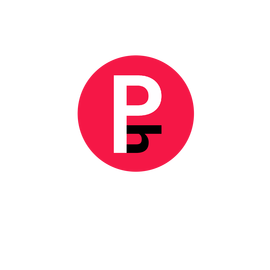
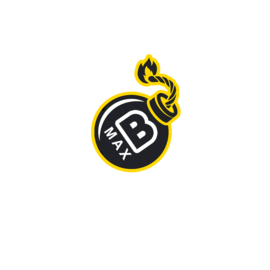
menu fix

Changed region(s): [[0.2667, 0.1778, 0.7407, 0.6519]]

diff --git a/src/components/Header/Header.js b/src/components/Header/Header.js
@@ -48,16 +48,16 @@ const Header = ({ links, isNightMode, setNightMode }) => {
           <Button className={classes.title}>
             <Hidden xsDown>
               <img
-                alt="PegHub"
-                src={require(`images/peghubstaking.png`)}
+                alt="BOMB"
+                src={require(`images/bombmax-512.png`)}
                 height={'70px'}
                 className={classes.logo}
               />
             </Hidden>
             <Hidden smUp>
               <img
-                alt="PegHub"
-                src={require(`images/peghubstaking.png`)}
+                alt="BOMB"
+                src={require(`images/bomb-money.png`)}
                 height={'35px'}
                 className={classes.logo}
               />
@@ -67,15 +67,15 @@ const Header = ({ links, isNightMode, setNightMode }) => {
 
         <div className={classes.middleNav}>
           <Hidden smDown>
-            {renderLink('https://www.peghub.com', t('PegHub'), null, classes)}
             {renderLink('https://app.bomb.money/', t('BOMB Money'), null, classes)}
-            {renderLink('https://app.bitbomb.io/', t('bitBOMB'), null, classes)}
-            {renderLink('https://www.czpegs.com/', t('czPegs'), null, classes)}
+            {renderLink('https://www.bomb.app/', t('BOMB MAX'), null, classes)}
+            {/* {renderLink('https://www.czpegs.com/', t('czPegs'), null, classes)}
             {renderLink('https://www.snowpegs.com/', t('SnowPegs'), null, classes)}
-            {renderLink('https://www.polypegs.com/', t('PolyPegs'), null, classes)}
-            {renderLink('https://swap.peghub.com/swap', t('Swap'), null, classes)}
-            {renderLink('https://vaults.peghub.com/', t('Vaults'), null, classes, '#000000')}
+            {renderLink('https://www.polypegs.com/', t('PolyPegs'), null, classes)} */}
+            {renderLink('https://bombswap.xyz', t('Swap'), null, classes)}
+            {renderLink('https://www.bomb.farm/', t('Vaults'), null, classes, '#000000')}
             {renderLink('https://docs.peghub.com/', t('Docs'), null, classes)}
+            {renderLink('https://www.peghub.com', t('PegHub'), null, classes)}
           </Hidden>
         </div>
 
@@ -119,15 +119,16 @@ const Header = ({ links, isNightMode, setNightMode }) => {
           </IconButton>
           <div className={classes.appResponsive}>{links}</div>
           <div style={{ textAlign: 'center' }}>
-            <LinkSidebar url="https://www.peghub.com" label={t('PegHub')} classes={classes} />
             <LinkSidebar url="https://app.bomb.money" label={t('BOMB Money')} classes={classes} />
-            <LinkSidebar url="https://app.bitbomb.io" label={t('bitBOMB')} classes={classes} />
-            <LinkSidebar url="https://www.czpegs.com/" label={t('czPegs')} classes={classes} />
+            <LinkSidebar url="https://www.bomb.app" label={t('BOMB MAX')} classes={classes} />
+            {/* <LinkSidebar url="https://www.czpegs.com/" label={t('czPegs')} classes={classes} />
             <LinkSidebar url="https://www.snowpegs.com/" label={t('SnowPegs')} classes={classes} />
-            <LinkSidebar url="https://www.polypegs.com/" label={t('PolyPegs')} classes={classes} />
-            <LinkSidebar url="https://swap.peghub.com/swap" label={t('Swap')} classes={classes} />
-            <LinkSidebar url="https://vaults.peghub.com/" label={t('Vaults')} classes={classes} />
+            <LinkSidebar url="https://www.polypegs.com/" label={t('PolyPegs')} classes={classes} /> */}
+            <LinkSidebar url="https://bombswap.xyz" label={t('Swap')} classes={classes} />
+            <LinkSidebar url="https://www.bomb.farm/" label={t('Vaults')} classes={classes} />
             <LinkSidebar url="https://docs.peghub.com/" label={t('Docs')} classes={classes} />
+            <LinkSidebar url="https://www.peghub.com" label={t('PegHub')} classes={classes} />
+
             {/* <LinkSidebar name="dashboard" label={t('stats')} icon="chart-bar" classes={classes} />
             <LinkSidebar name="docs" label={t('docs')} icon="book" classes={classes} />
             <LinkSidebar name="blog" label={t('blog')} icon="file-alt" classes={classes} />

diff --git a/public/index.html b/public/index.html
@@ -35,8 +35,8 @@
       media="nope!"
       onload="this.media='all'"
     />
-    <title>vaults.peghub.com</title>
-    <meta name="description" content="The Peghub way to Yield Optimize" />
+    <title>bomb.farm</title>
+    <meta name="description" content="The BOMB way to Yield Optimize" />
 
     <meta property="og:local" content="en_US" />
     <meta property="og:title" content="bomb.farm" />

diff --git a/scripts/config.js b/scripts/config.js
@@ -14,6 +14,8 @@ export const chainPools = {
   // heco: hecoPools,
 };
 export const chainRpcs = {
-  bsc: process.env.BSC_RPC || 'https://rpc.ankr.com/bsc',
+  bsc:
+    process.env.BSC_RPC ||
+    'https://rpc.ankr.com/bsc/eb6d1bd7efcaa7628ae461af5b40cbdcfe27c2c10a389ad7212300c3ea9445cd',
   // heco: process.env.HECO_RPC || 'https://http-mainnet.hecochain.com',
 };

diff --git a/src/network.js b/src/network.js
@@ -6,12 +6,12 @@ export const allNetworks = [
     id: 56,
     hash: '/bsc',
   },
-  {
-    name: 'BOMB',
-    asset: 'BOMB',
-    id: 2300,
-    hash: '/bomb',
-  },
+  // {
+  //   name: 'BOMB',
+  //   asset: 'BOMB',
+  //   id: 2300,
+  //   hash: '/bomb',
+  // },
   // {
   //   name: 'HECO',
   //   asset: 'HECO',
